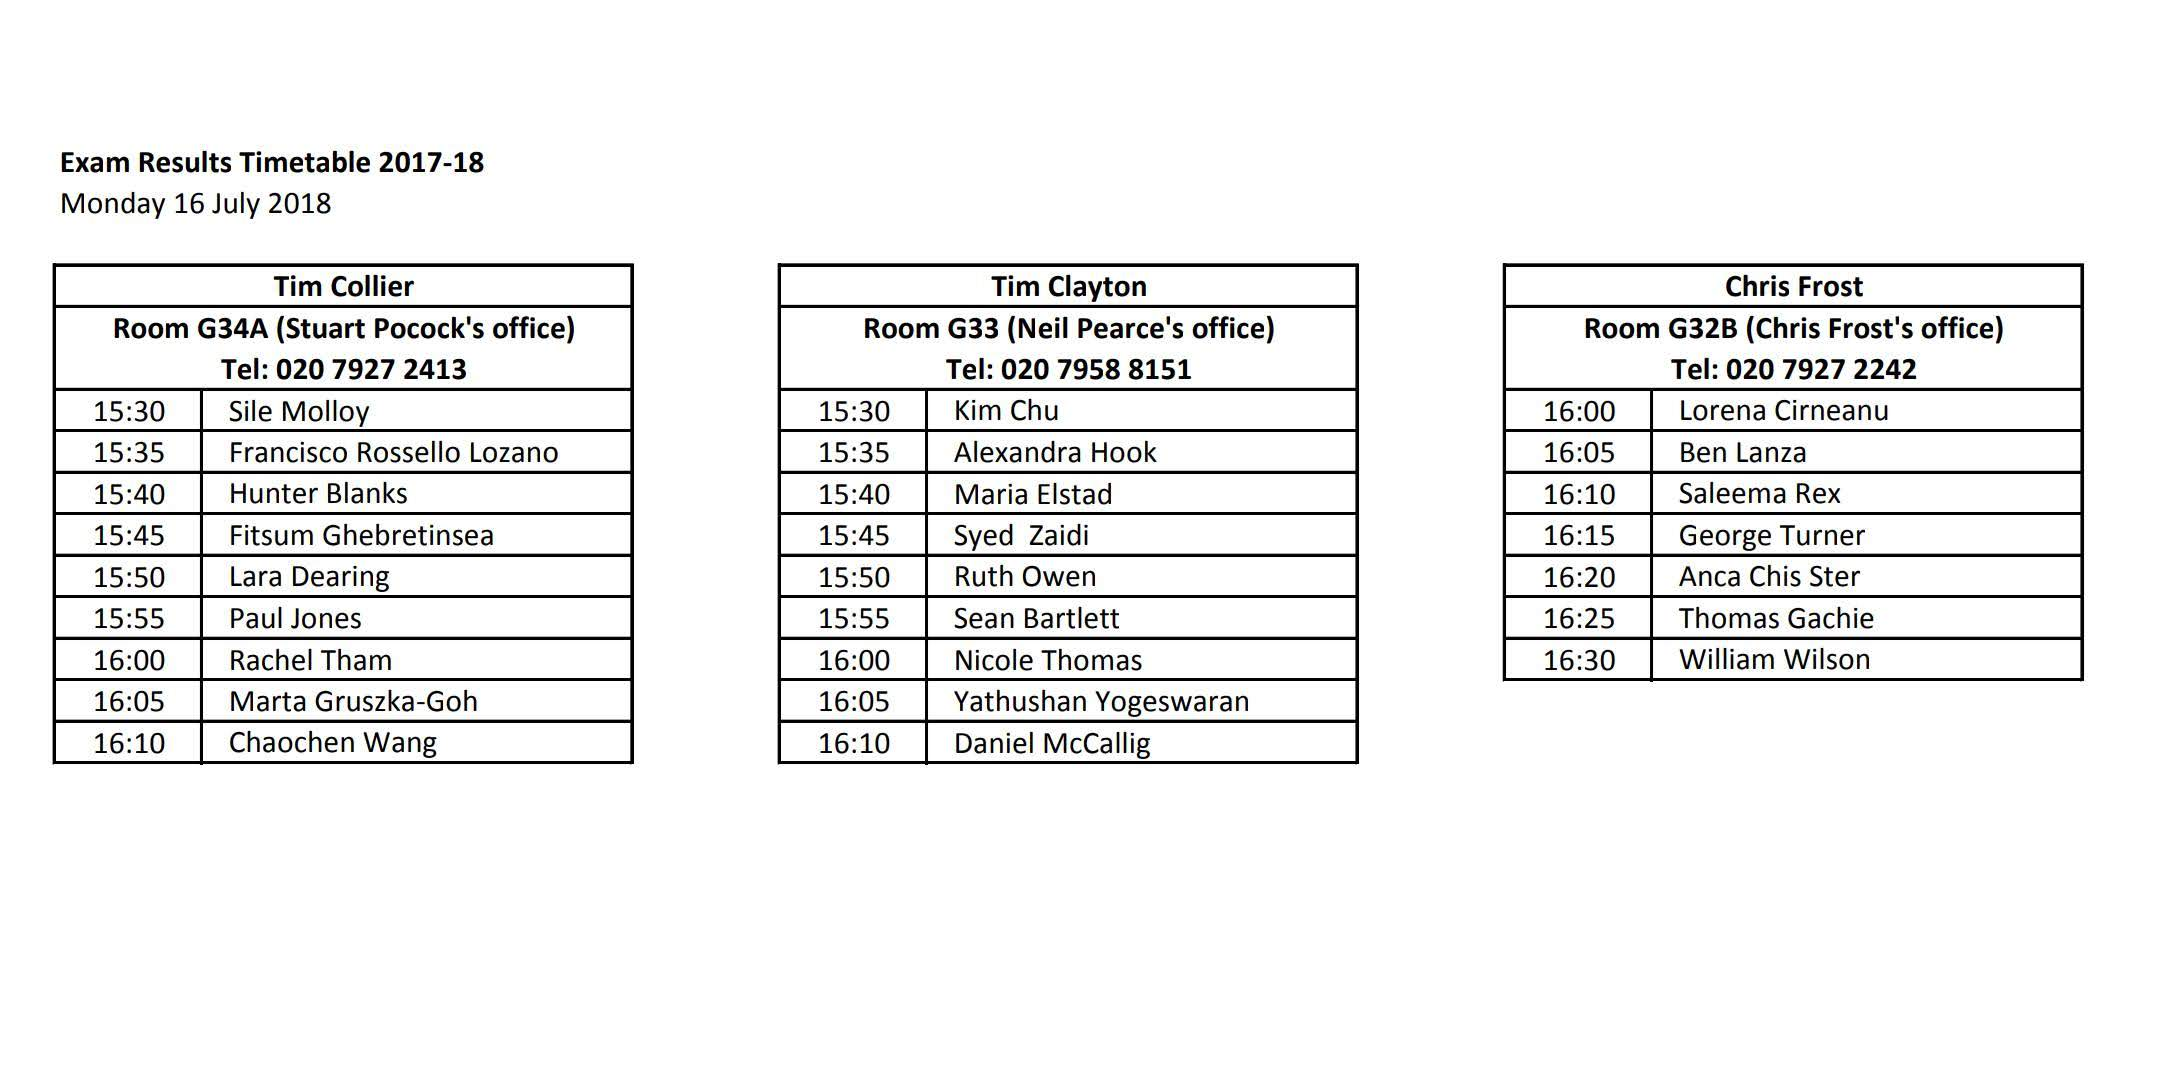
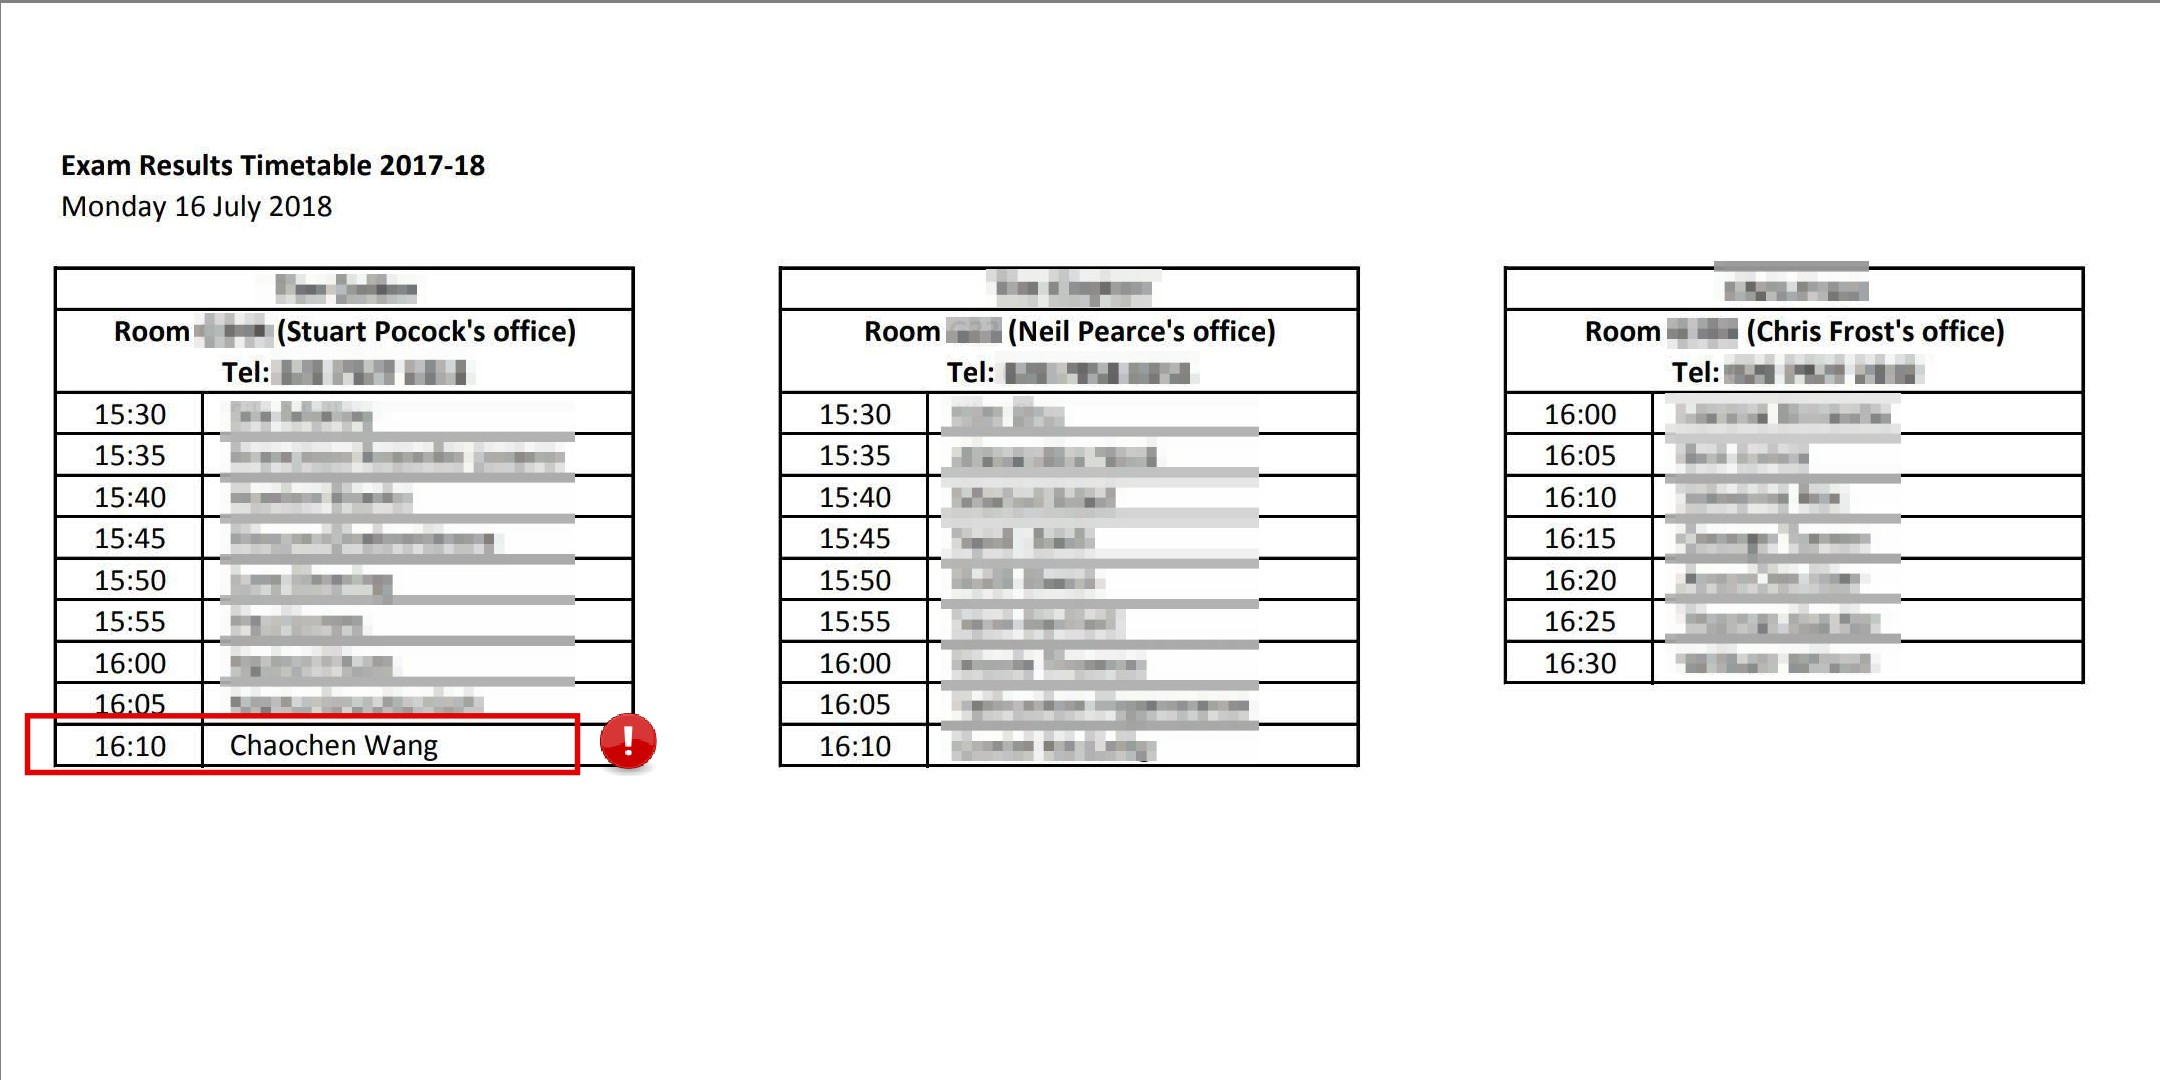
names of classmates hided

diff --git a/index.html b/index.html
@@ -70,8 +70,8 @@ background-size: contain
 
 ---
 ### My activity zone (everything within 1 km)
-<div id="htmlwidget-93eb9fbce97557641347" style="width:100%;height:504px;" class="leaflet html-widget"></div>
-<script type="application/json" data-for="htmlwidget-93eb9fbce97557641347">{"x":{"options":{"crs":{"crsClass":"L.CRS.EPSG3857","code":null,"proj4def":null,"projectedBounds":null,"options":{}}},"setView":[[51.520812,-0.130276],15,[]],"calls":[{"method":"addTiles","args":["//{s}.tile.openstreetmap.org/{z}/{x}/{y}.png",null,null,{"minZoom":0,"maxZoom":18,"tileSize":256,"subdomains":"abc","errorTileUrl":"","tms":false,"noWrap":false,"zoomOffset":0,"zoomReverse":false,"opacity":1,"zIndex":1,"detectRetina":false,"attribution":"&copy; <a href=\"http://openstreetmap.org\">OpenStreetMap<\/a> contributors, <a href=\"http://creativecommons.org/licenses/by-sa/2.0/\">CC-BY-SA<\/a>"}]},{"method":"addMarkers","args":[51.520812,-0.130276,null,null,null,{"interactive":true,"draggable":false,"keyboard":true,"title":"","alt":"","zIndexOffset":0,"opacity":1,"riseOnHover":false,"riseOffset":250},"LSHTM",null,null,null,null,{"interactive":false,"permanent":false,"direction":"auto","opacity":1,"offset":[0,0],"textsize":"10px","textOnly":false,"className":"","sticky":true},null]},{"method":"addMarkers","args":[51.523664,-0.121504,null,null,null,{"interactive":true,"draggable":false,"keyboard":true,"title":"","alt":"","zIndexOffset":0,"opacity":1,"riseOnHover":false,"riseOffset":250},"International Hall",null,null,null,null,{"interactive":false,"permanent":false,"direction":"auto","opacity":1,"offset":[0,0],"textsize":"10px","textOnly":false,"className":"","sticky":true},null]},{"method":"addMarkers","args":[51.527128,-0.125381,null,null,null,{"interactive":true,"draggable":false,"keyboard":true,"title":"","alt":"","zIndexOffset":0,"opacity":1,"riseOnHover":false,"riseOffset":250},"Lutheran Student Centre",null,null,null,null,{"interactive":false,"permanent":false,"direction":"auto","opacity":1,"offset":[0,0],"textsize":"10px","textOnly":false,"className":"","sticky":true},null]},{"method":"addCircles","args":[51.520812,-0.130276,1000,null,null,{"interactive":true,"className":"","stroke":true,"color":"#03F","weight":3,"opacity":0.7,"fill":false,"fillColor":"#03F","fillOpacity":0.2},null,null,null,{"interactive":false,"permanent":false,"direction":"auto","opacity":1,"offset":[0,0],"textsize":"10px","textOnly":false,"className":"","sticky":true},null,null]}],"limits":{"lat":[51.520812,51.527128],"lng":[-0.130276,-0.121504]}},"evals":[],"jsHooks":[]}</script>
+<div id="htmlwidget-e435600c1949d8b7d7d1" style="width:100%;height:504px;" class="leaflet html-widget"></div>
+<script type="application/json" data-for="htmlwidget-e435600c1949d8b7d7d1">{"x":{"options":{"crs":{"crsClass":"L.CRS.EPSG3857","code":null,"proj4def":null,"projectedBounds":null,"options":{}}},"setView":[[51.520812,-0.130276],15,[]],"calls":[{"method":"addTiles","args":["//{s}.tile.openstreetmap.org/{z}/{x}/{y}.png",null,null,{"minZoom":0,"maxZoom":18,"tileSize":256,"subdomains":"abc","errorTileUrl":"","tms":false,"noWrap":false,"zoomOffset":0,"zoomReverse":false,"opacity":1,"zIndex":1,"detectRetina":false,"attribution":"&copy; <a href=\"http://openstreetmap.org\">OpenStreetMap<\/a> contributors, <a href=\"http://creativecommons.org/licenses/by-sa/2.0/\">CC-BY-SA<\/a>"}]},{"method":"addMarkers","args":[51.520812,-0.130276,null,null,null,{"interactive":true,"draggable":false,"keyboard":true,"title":"","alt":"","zIndexOffset":0,"opacity":1,"riseOnHover":false,"riseOffset":250},"LSHTM",null,null,null,null,{"interactive":false,"permanent":false,"direction":"auto","opacity":1,"offset":[0,0],"textsize":"10px","textOnly":false,"className":"","sticky":true},null]},{"method":"addMarkers","args":[51.523664,-0.121504,null,null,null,{"interactive":true,"draggable":false,"keyboard":true,"title":"","alt":"","zIndexOffset":0,"opacity":1,"riseOnHover":false,"riseOffset":250},"International Hall",null,null,null,null,{"interactive":false,"permanent":false,"direction":"auto","opacity":1,"offset":[0,0],"textsize":"10px","textOnly":false,"className":"","sticky":true},null]},{"method":"addMarkers","args":[51.527128,-0.125381,null,null,null,{"interactive":true,"draggable":false,"keyboard":true,"title":"","alt":"","zIndexOffset":0,"opacity":1,"riseOnHover":false,"riseOffset":250},"Lutheran Student Centre",null,null,null,null,{"interactive":false,"permanent":false,"direction":"auto","opacity":1,"offset":[0,0],"textsize":"10px","textOnly":false,"className":"","sticky":true},null]},{"method":"addCircles","args":[51.520812,-0.130276,1000,null,null,{"interactive":true,"className":"","stroke":true,"color":"#03F","weight":3,"opacity":0.7,"fill":false,"fillColor":"#03F","fillOpacity":0.2},null,null,null,{"interactive":false,"permanent":false,"direction":"auto","opacity":1,"offset":[0,0],"textsize":"10px","textOnly":false,"className":"","sticky":true},null,null]}],"limits":{"lat":[51.520812,51.527128],"lng":[-0.130276,-0.121504]}},"evals":[],"jsHooks":[]}</script>
 
 
 ---
